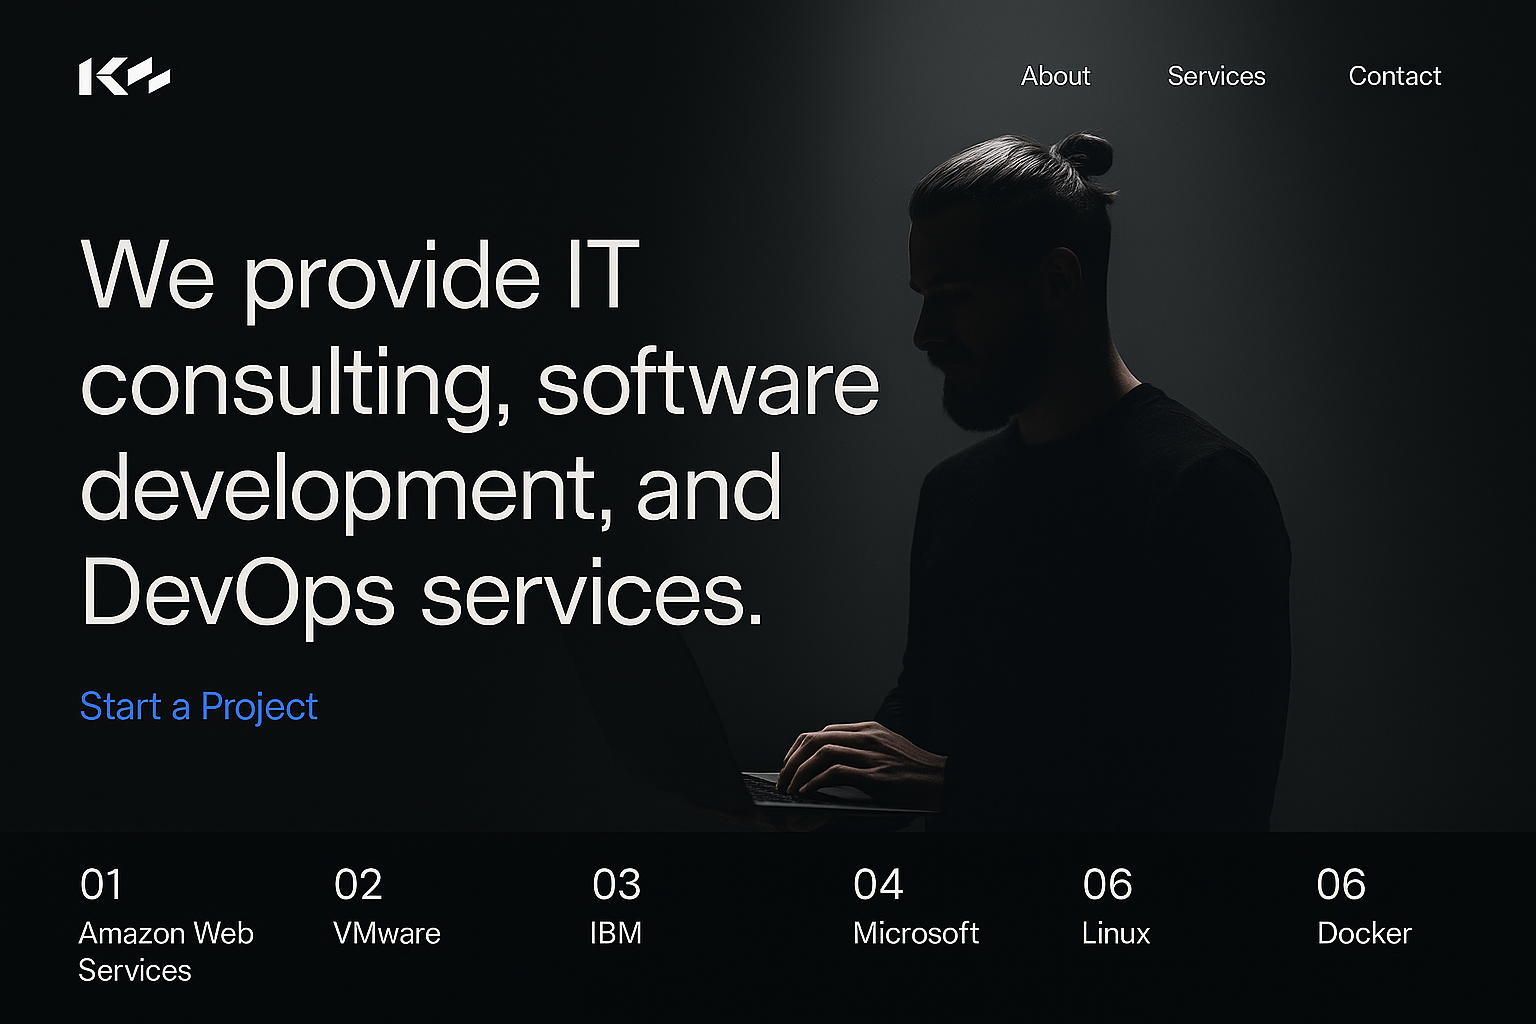
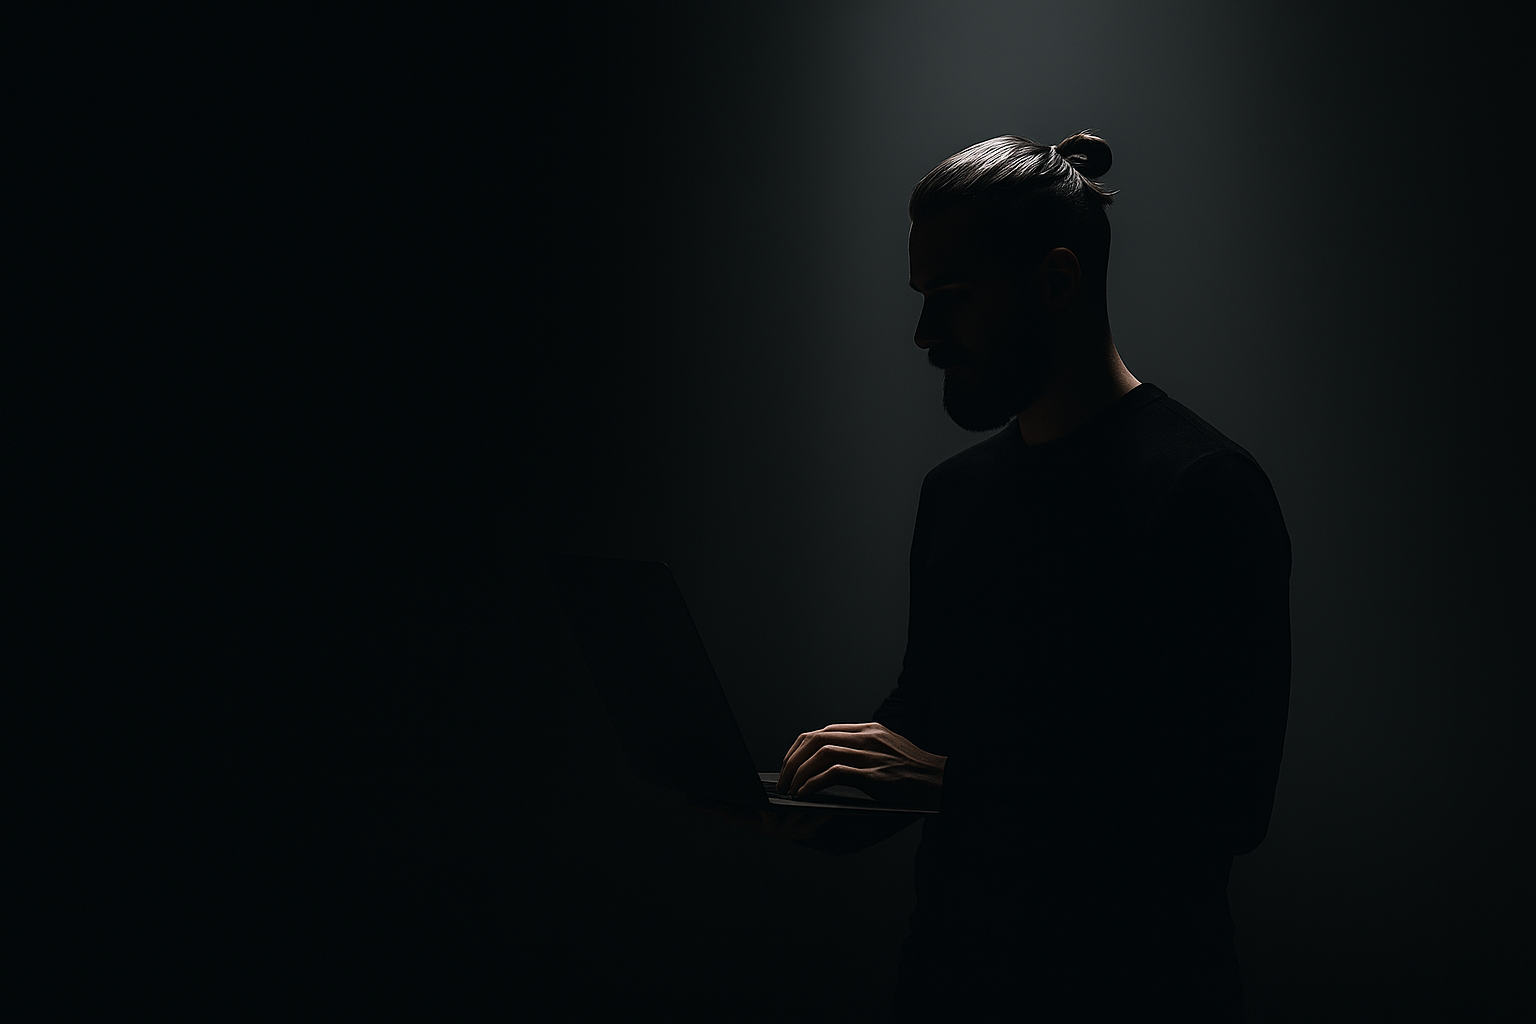
1

diff --git a/index.html b/index.html
@@ -3,7 +3,7 @@
 <head>
   <meta charset="UTF-8" />
   <meta name="viewport" content="width=device-width, initial-scale=1.0" />
-  <title>Dark Landing Page</title>
+  <title>slnat - IT Services</title>
   <link rel="stylesheet" href="styles.css" />
 </head>
 <body>
